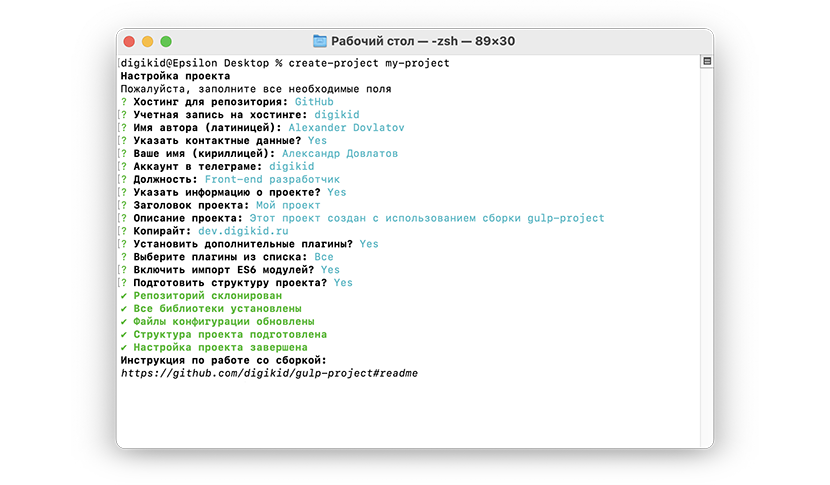
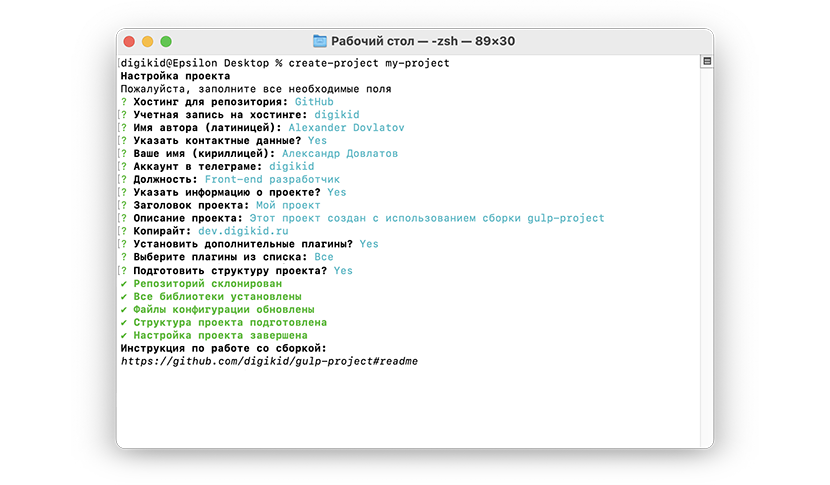
Update to 1.1.1

Changed region(s): [[0.1205, 0.5258, 0.512, 0.8041]]

diff --git a/lib/tasks/addConfig.js b/lib/tasks/addConfig.js
@@ -71,7 +71,7 @@ export default async (config, options) => {
 
                 data.presets.global[key] = value;
 
-                if ((key === 'es6') || (key === 'babel')) {
+                if ((key === 'babel')) {
                     if (!('modules' in data.presets.global)) {
                         data.presets.global.modules = {};
                     };

diff --git a/CHANGELOG.md b/CHANGELOG.md
@@ -2,6 +2,16 @@
 
 Все основные изменения задокументированы в этом файле.
 
+[1.1.1]: https://github.com/digikid/create-project/releases/tag/1.1.1
+
+## [1.1.1] - 2022-02-06
+
+### Исправлено
+- Рефакторинг кода, исправление мелких ошибок
+
+### Удалено
+- В связи с обновлением сборки удален запрос на использование ECMAScript-модулей
+
 [1.1.0]: https://github.com/digikid/create-project/releases/tag/1.1.0
 
 ## [1.1.0] - 2022-01-28
